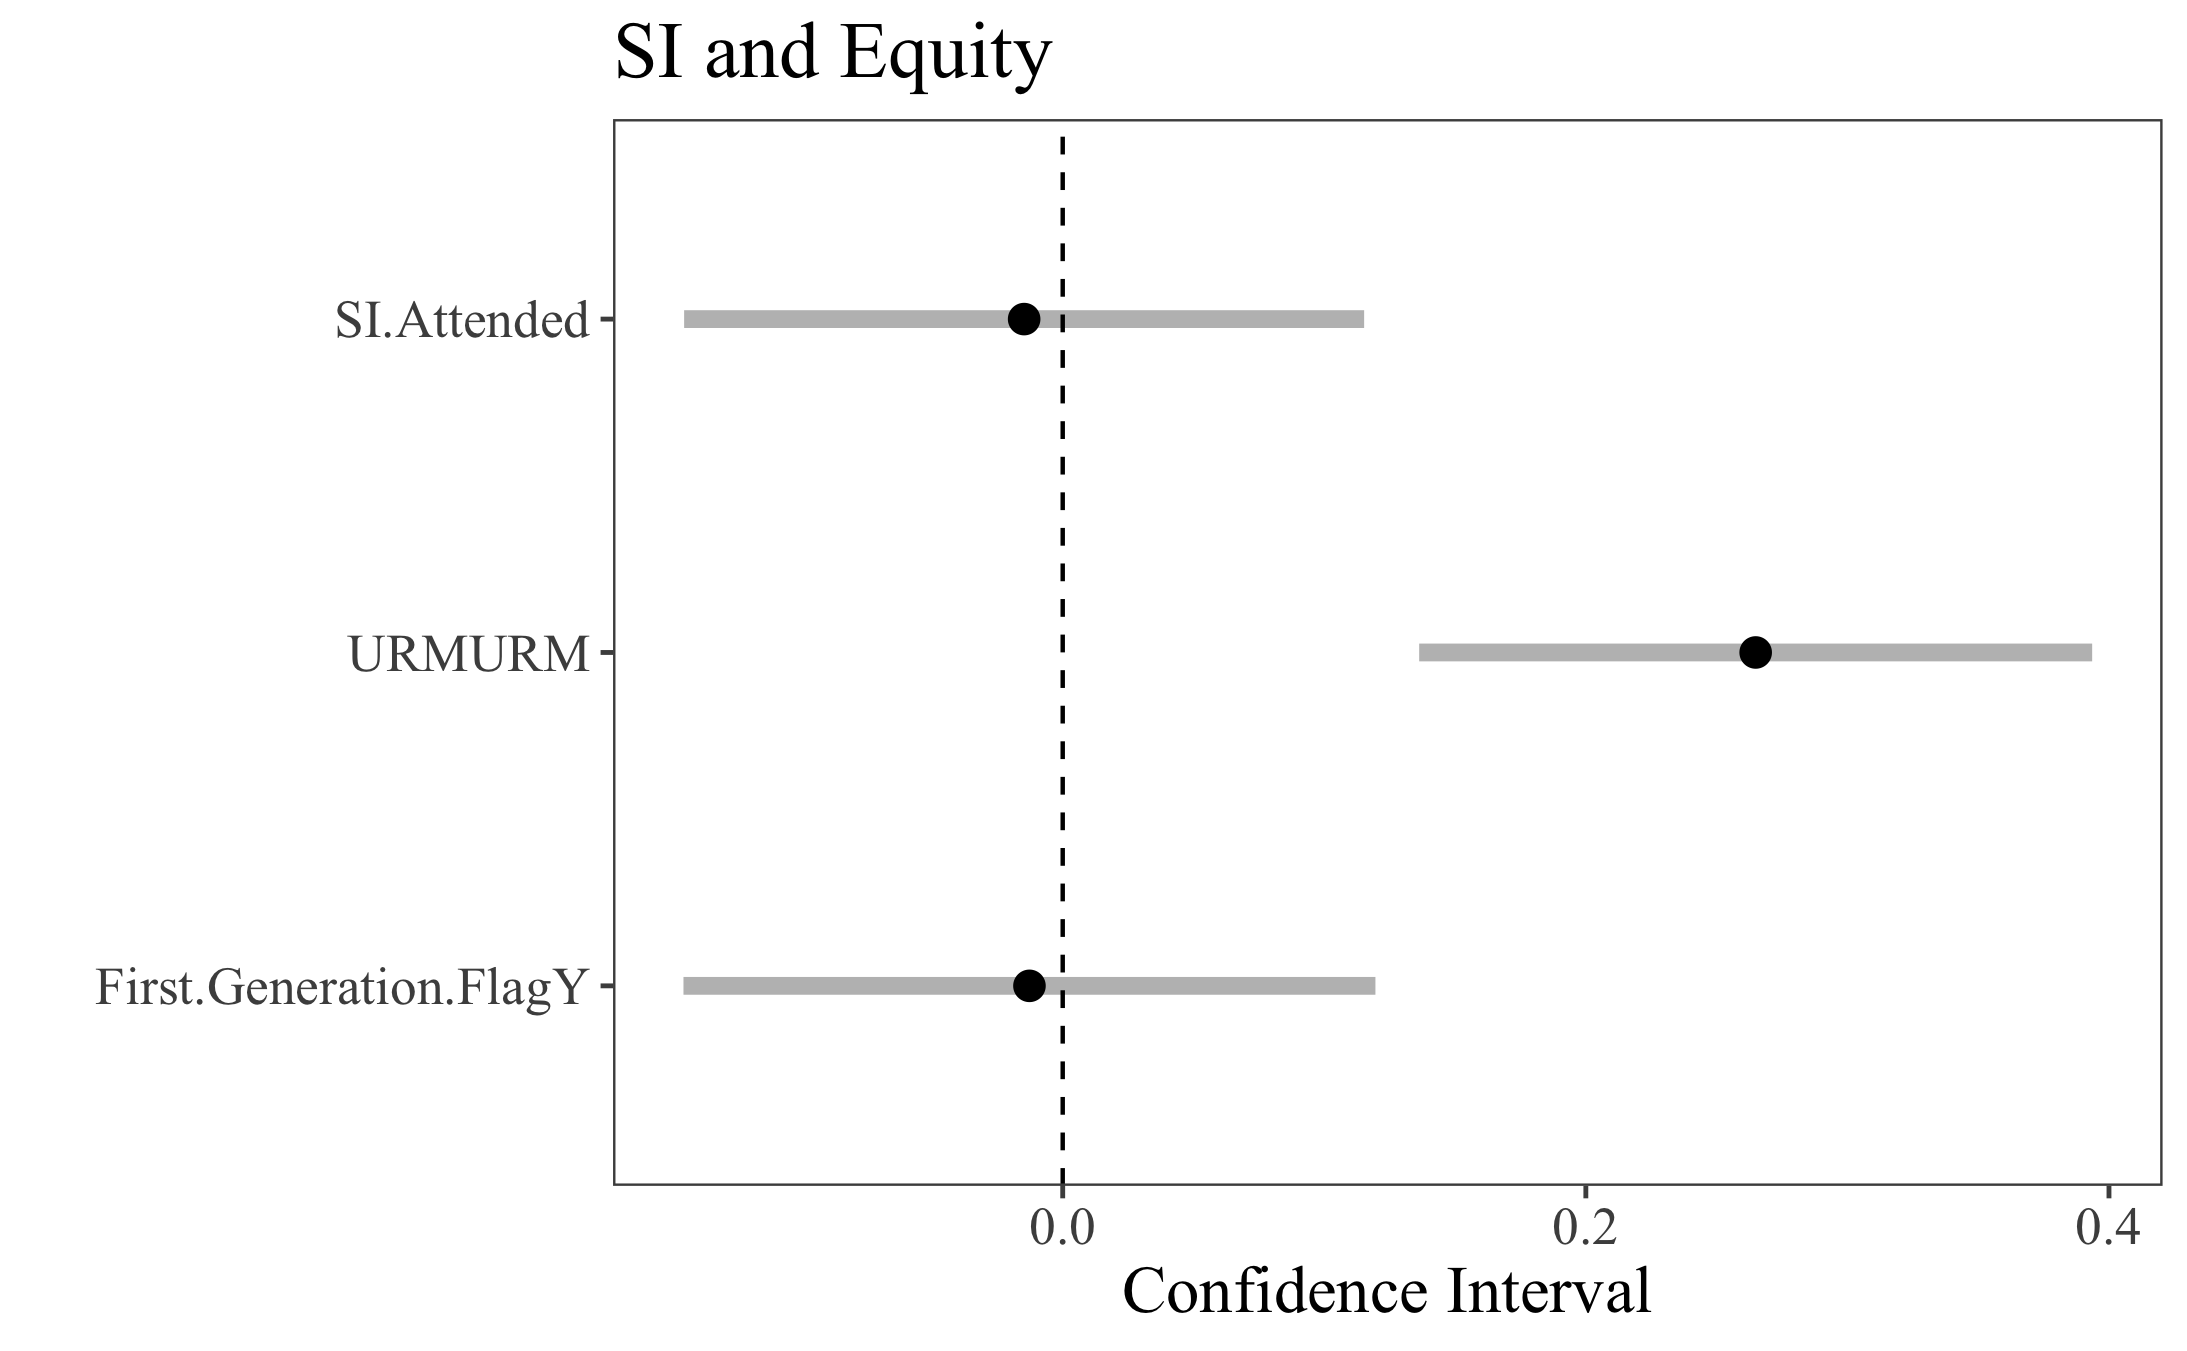
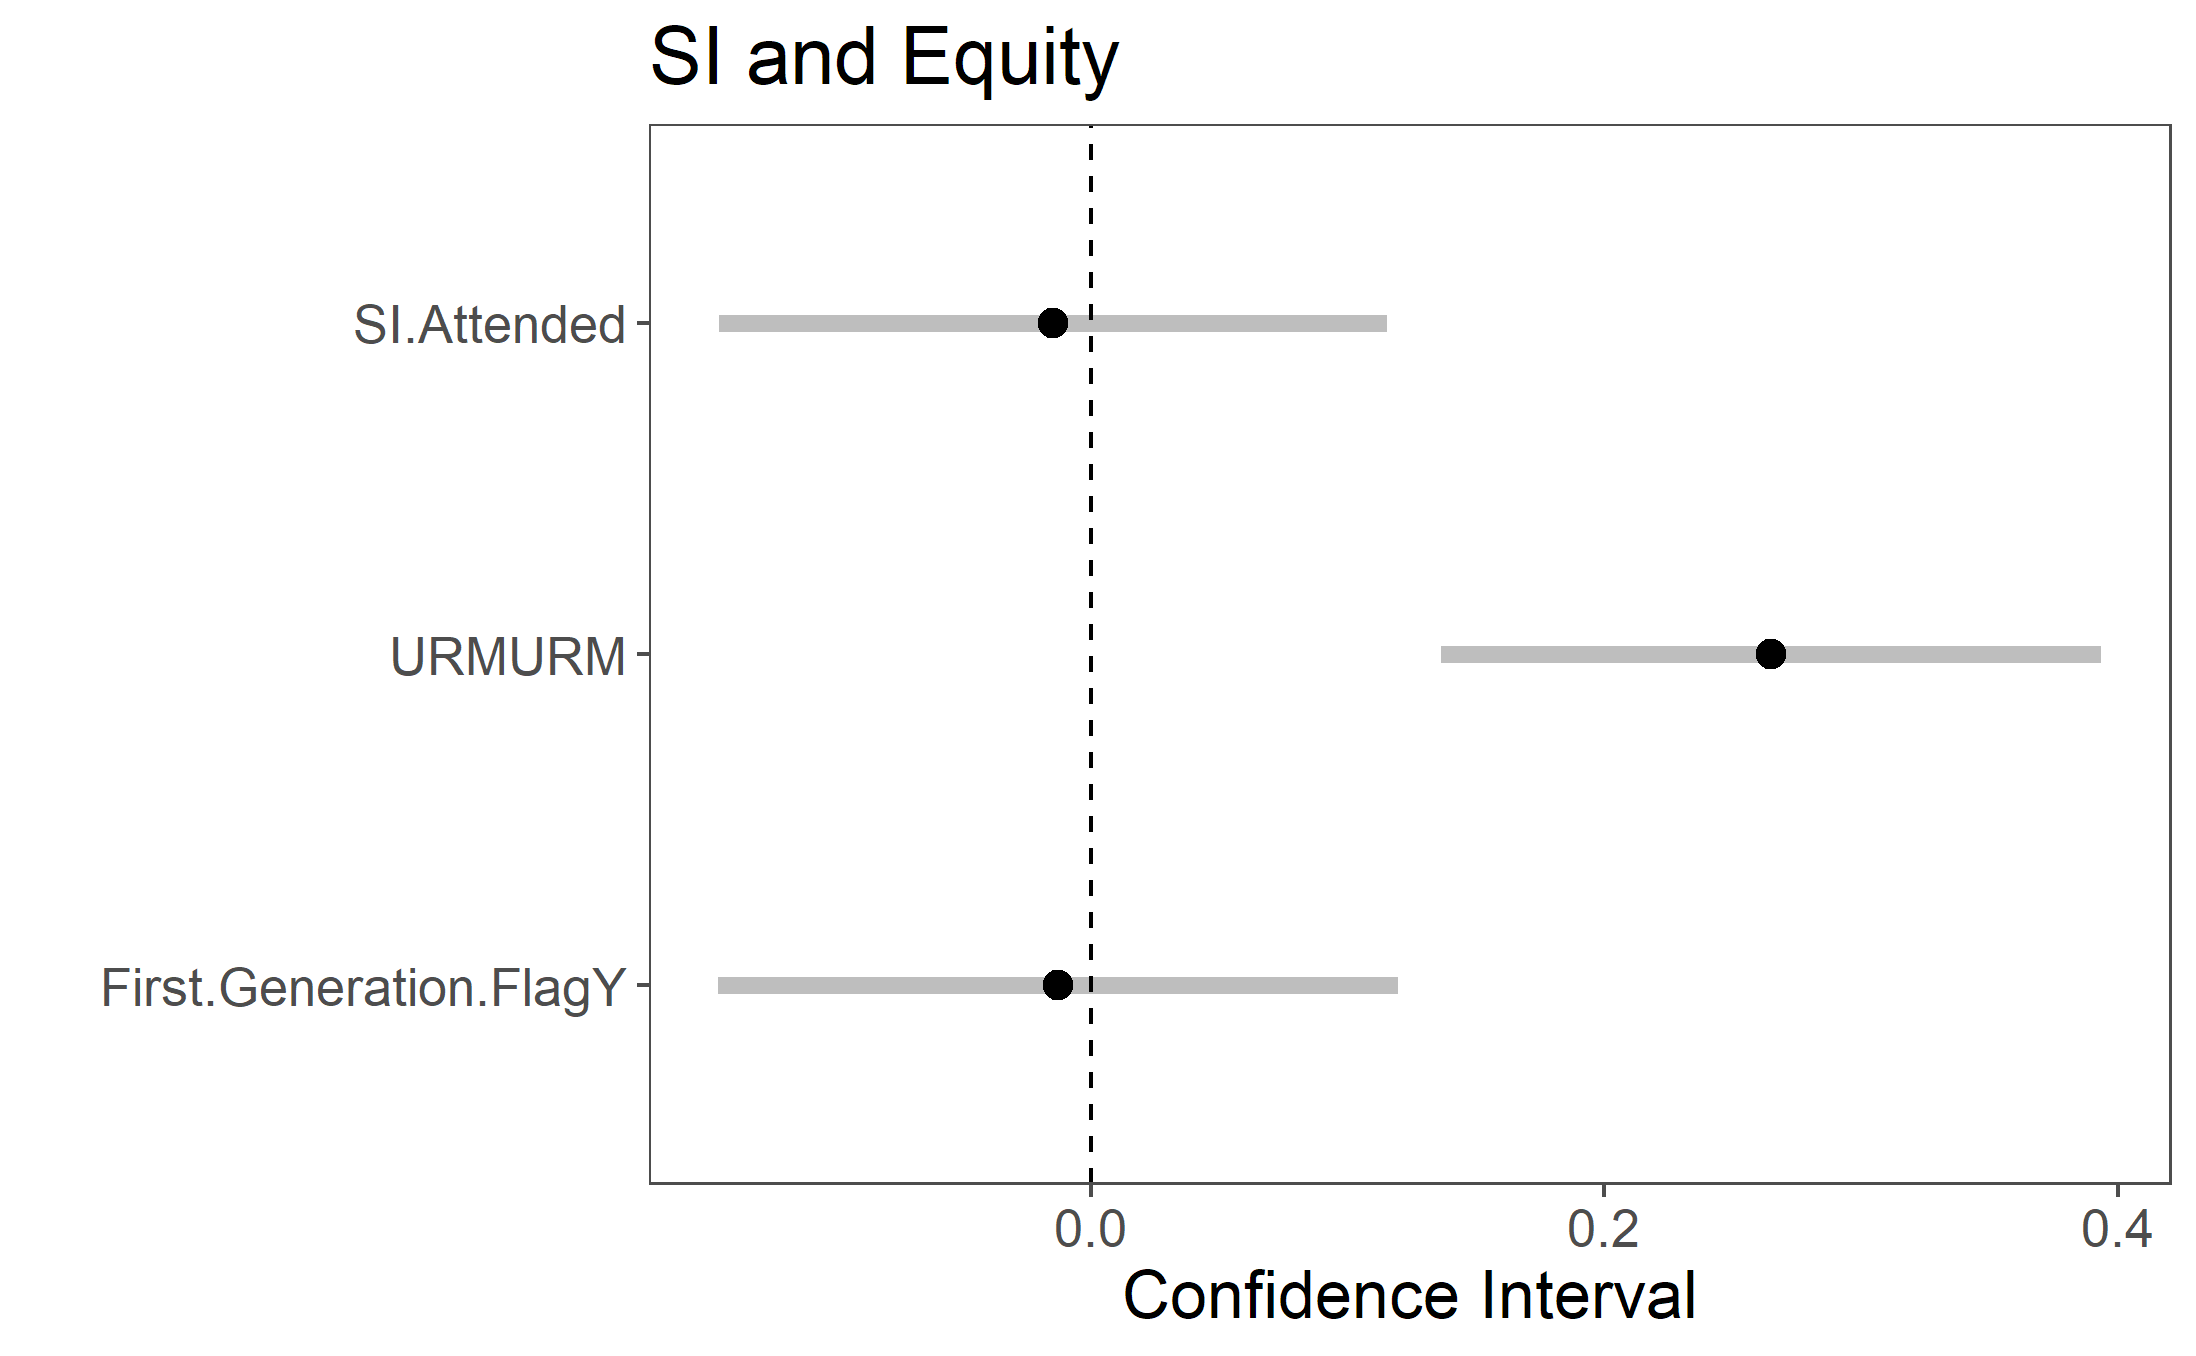
fixed data manage

diff --git a/poster html copy/poster-html.html b/poster html copy/poster-html.html
@@ -21,9 +21,7 @@ Google fonts api stuff
 
 <title>Exploring the Effect of Supplimental Instruction on Equity Gaps</title>
 
-<script src="poster-html_files/header-attrs-2.11/header-attrs.js"></script>
 
-<script src="poster-html_files/accessible-code-block-0.0.1/empty-anchor.js"></script>
 
 
 
@@ -400,15 +398,11 @@ The data included course information, student demographics, and student course g
 <li><p>We limited our sample to first time freshman and General Education Courses. Figure 1 presents one year retention for those who did and did not attend SI by one of the measures of equity, URM.</p></li>
 </ul>
 <div class="figure" style="text-align: center"><span style="display:block;" id="fig:unnamed-chunk-1"></span>
-<img src="pictures/fig1.png" alt="caption" width="1094" /><img src="pictures/fig2.png" alt="caption" width="1094" />
+<img src="pictures/fig1.png" alt="Less students attended SI overall, but there were fewer one-year drop-outs from students who attended SI." width="1098" /><img src="pictures/fig2.png" alt="Less students attended SI overall, but there were fewer one-year drop-outs from students who attended SI." width="1098" />
 <p class="caption">
-Figure 1: caption
+Figure 1: Less students attended SI overall, but there were fewer one-year drop-outs from students who attended SI.
 </p>
 </div>
-<p><br>
-<br>
-<br>
-<br></p>
 <div id="course-level" class="section level4">
 <h4>Course Level</h4>
 <div class="figure" style="text-align: center"><span style="display:block;" id="fig:unnamed-chunk-2"></span>
